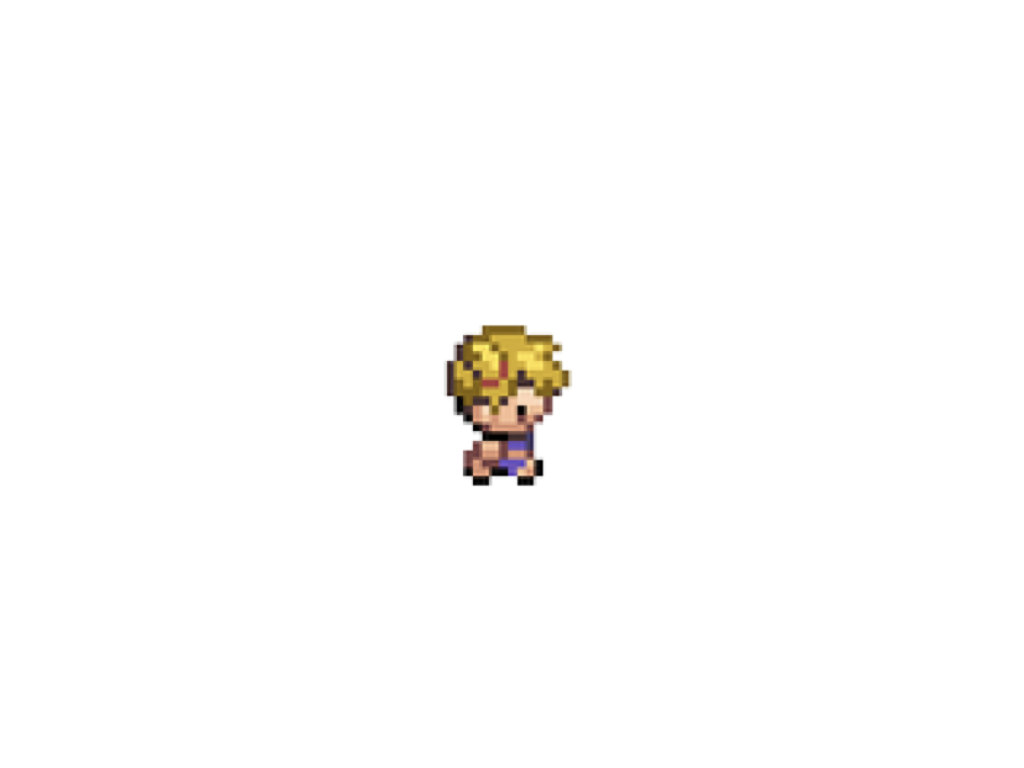
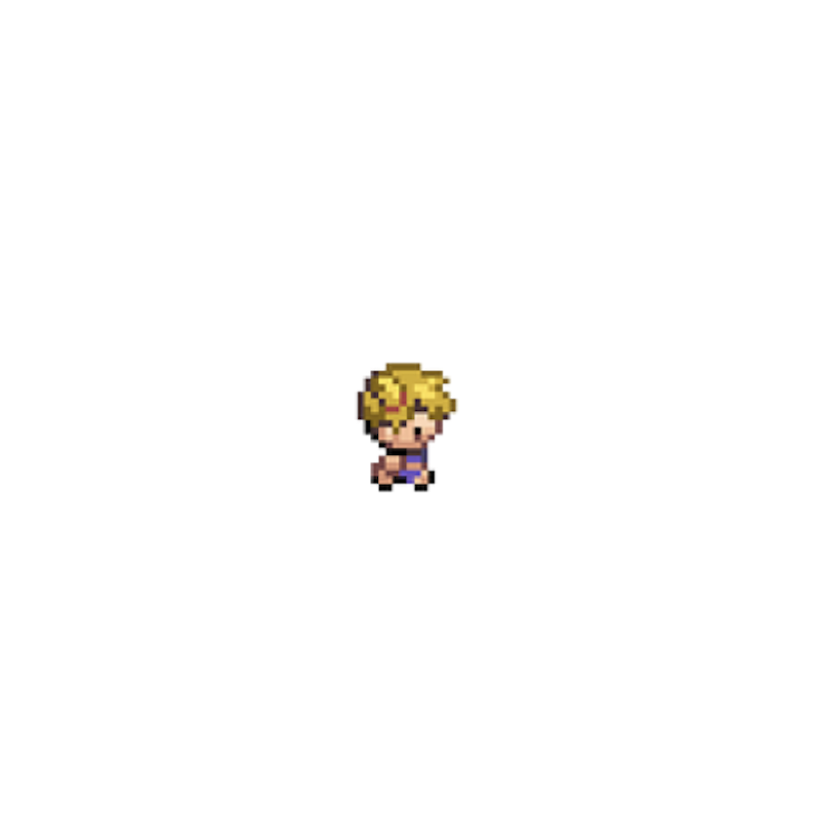
加入人物 完成Setting\Help畫面連結

Changed region(s): [[0.4268, 0.4062, 0.5488, 0.6562]]

diff --git a/charater.cpp b/charater.cpp
@@ -16,7 +16,7 @@ typedef struct character //角色位置
     ALLEGRO_BITMAP *img_move[2];        //移動 用兩張圖
     ALLEGRO_BITMAP *img_atk[2];         // 攻擊 用兩張圖
     ALLEGRO_SAMPLE_INSTANCE *atk_Sound; //攻擊之音效
-    //控制練續動作之動畫時間(以下)
+    //控制連續動作之動畫時間(以下)
     int anime;      // counting the time of animation
     int anime_time; // indicate how long the animation
 } Character;
@@ -28,7 +28,7 @@ void character_init()
     for (int i = 1; i <= 2; i++)
     {
         char temp[50];
-        sprintf(temp, "./image/char_move%d.png", i); //用迴圈 一張張把圖片load進去
+        sprintf(temp, "./image/run_%d.png", i); //用迴圈 一張張把圖片load進去
         chara.img_move[i - 1] = al_load_bitmap(temp);
     }
     for (int i = 1; i <= 2; i++)
@@ -46,8 +46,8 @@ void character_init()
     // initial the geometric information of character
     chara.width = al_get_bitmap_width(chara.img_move[0]);
     chara.height = al_get_bitmap_height(chara.img_move[0]);
-    chara.x = WIDTH / 2;
-    chara.y = HEIGHT / 2;
+    chara.x = 0;
+    chara.y = 0;
     chara.dir = false;
 
     // initial the animation component
@@ -67,7 +67,7 @@ void charater_process(ALLEGRO_EVENT event)
         }
         // process the keyboard event
     }
-    else if (event.type == ALLEGRO_EVENT_KEY_DOWN) //按 往下按 執行動作
+    else if (event.type == ALLEGRO_EVENT_KEY_DOWN) //按 往下 執行動作
     {
         key_state[event.keyboard.keycode] = true;
         chara.anime = 0;
@@ -132,22 +132,22 @@ void character_draw()
         {
             if (chara.anime < chara.anime_time / 2) //移動之第一張圖
             {
-                al_draw_bitmap(chara.img_move[0], chara.x, chara.y, ALLEGRO_FLIP_HORIZONTAL);
+                al_draw_bitmap(chara.img_move[0], chara.x, chara.y, 0);
             }
             else //大於 移動之第二張圖
             {
-                al_draw_bitmap(chara.img_move[1], chara.x, chara.y, ALLEGRO_FLIP_HORIZONTAL);
+                al_draw_bitmap(chara.img_move[1], chara.x, chara.y, 0);
             }
         }
         else
         {
             if (chara.anime < chara.anime_time / 2)
             {
-                al_draw_bitmap(chara.img_move[0], chara.x, chara.y, 0);
+                al_draw_bitmap(chara.img_move[0], chara.x, chara.y, ALLEGRO_FLIP_HORIZONTAL);
             }
             else
             {
-                al_draw_bitmap(chara.img_move[1], chara.x, chara.y, 0);
+                al_draw_bitmap(chara.img_move[1], chara.x, chara.y, ALLEGRO_FLIP_HORIZONTAL);
             }
         }
     }

diff --git a/GameWindow.cpp b/GameWindow.cpp
@@ -85,7 +85,7 @@ void game_begin()
 }
 void game_update()
 {
-    if (judge_next_window)
+    if (judge_next_window == 1)
     {
         if (window == 1)
         {
@@ -93,13 +93,23 @@ void game_update()
             menu_destroy();
             // initialize next scene
             game_scene_init();
-            judge_next_window = false;
+            judge_next_window = 1;
             window = 2;
         }
+        if (window == 2)
+        {
+            charater_update();
+        }
     }
-    if (window == 2)
+    else if (judge_next_window == 2)
     {
-        charater_update();
+        menu_destroy();
+        game_setting_init();
+    }
+    else if (judge_next_window == 3)
+    {
+        menu_destroy();
+        game_help_init();
     }
 }
 int process_event()

diff --git a/scene.h b/scene.h
@@ -9,3 +9,11 @@ void menu_destroy();
 void game_scene_init();
 void game_scene_draw();
 void game_scene_destroy();
+
+void game_setting_init();
+void game_setting_draw();
+void game_setting_destroy();
+
+void game_help_init();
+void game_help_draw();
+void game_help_destroy();

diff --git a/global.h b/global.h
@@ -15,7 +15,7 @@ extern const float FPS;
 extern const int WIDTH;
 extern const int HEIGHT;
 extern bool key_state[ALLEGRO_KEY_MAX];
-extern bool judge_next_window;
+extern int judge_next_window;
 extern ALLEGRO_EVENT_QUEUE *event_queue;
 extern ALLEGRO_TIMER *fps;
 #endif

diff --git a/global.cpp b/global.cpp
@@ -7,4 +7,4 @@ const int HEIGHT = 655;
 ALLEGRO_EVENT_QUEUE *event_queue = NULL;
 ALLEGRO_TIMER *fps = NULL;
 bool key_state[ALLEGRO_KEY_MAX] = {false};
-bool judge_next_window = false;
+int judge_next_window = 0;
